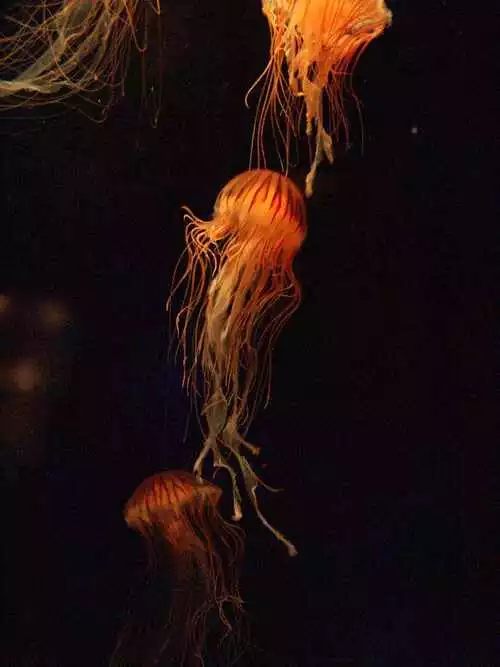
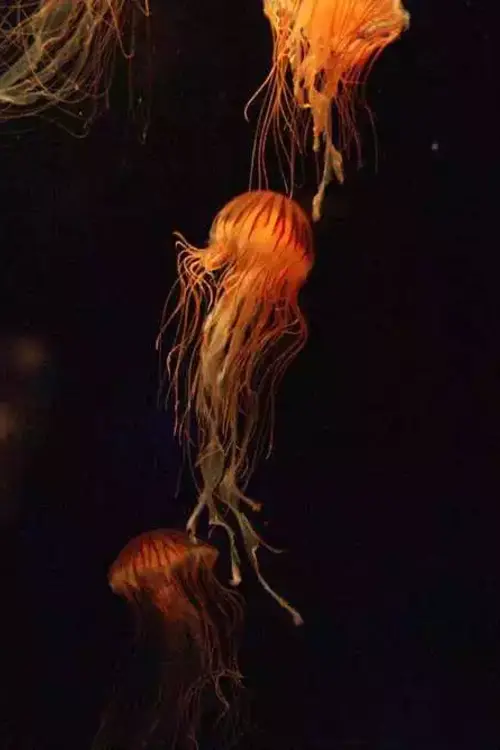
discovery images and css added

diff --git a/chamber/styles/discovery-base.css b/chamber/styles/discovery-base.css
@@ -81,48 +81,86 @@ container-navbar {
   background-color: white;
 }
 
-
-
 /*SIDE BAR*/
 
 main {
-    display: grid;
-    grid-template-columns: 1fr 3fr; /* Adjust column proportions as needed */
-    
-    height: 100vh;
+  display: grid;
+  grid-template-columns: 1fr 3fr;
+  /* Adjust column proportions as needed */
+
+  height: 100%;
 }
 
 .sidebar {
-    display: grid;
-    grid-template-rows: repeat(3, 1fr);
-    height: 100vh;
-    background-color: #f8f9fa; /* Adjust the background color as needed */
-    border-right: 1px solid #ccc; /* Add a border to separate sidebar from calendar */
+  display: grid;
+  grid-template-rows: repeat(3, 1fr);
+  height: 100%;
+  background-color: #f8f9fa;
+  /* Adjust the background color as needed */
+  border-right: 1px solid #ccc;
+  /* Add a border to separate sidebar from calendar */
 }
 
 .sidebar-section {
-    padding: 10px;
-    text-align: center;
-    border-bottom: 1px solid #ccc; /* Add a border to separate sections */
+  padding: 10px;
+  text-align: center;
+  border-bottom: 1px solid #ccc;
+  /* Add a border to separate sections */
 }
 
 .sidebar-section:last-child {
-    border-bottom: none; /* Remove border for the last section */
+  border-bottom: none;
+  /* Remove border for the last section */
 }
 
 .calendar {
-    width: 100%;
-    border: 1px solid #ccc;
-    border-radius: 5px;
-    background-color: #fff;
-    box-shadow: 0 2px 4px rgba(0, 0, 0, 0.1);
-    height: 100%; /* Adjust height as needed */
+  width: 100%;
+  border: 1px solid #ccc;
+  border-radius: 5px;
+  background-color: #fff;
+  box-shadow: 0 2px 4px rgba(0, 0, 0, 0.1);
+  /* Adjust height as needed */
 }
 
+/* Discovery page */
+.gallery {
+  display: grid;
+  grid-template-columns: repeat(2, 1fr);
+  grid-template-rows: repeat(3, 1fr);
+  grid-gap: 10px;
+  justify-items: center;
+  align-items: center;
+}
+
+.gallery img {
+  width: 100%;
+  height: 100%;
+  object-fit: cover;
+}
+
+.gallery-item {
+  border: red solid 2px;
+  max-width: 400px;
+}
+
+/* Styles for larger views */
+@media screen and (max-width: 768px) {
+  .gallery {
+    grid-template-columns: 1fr;
+  }
+}
+
+/* Hover effect for larger views when hovering over Discover */
+@media screen and (min-width: 769px) {
+  .nav-link:hover ~ .gallery .gallery-image {
+    transform: scale(1.05);
+    cursor: pointer;
+  }
+}
 
 footer {
-    text-align: center;
-    padding: 10px;
-    background-color: #333;
-    color: #fff;
+  text-align: center;
+  padding: 10px;
+  background-color: #333;
+  color: #fff;
 }

diff --git a/chamber/discover.html b/chamber/discover.html
@@ -7,16 +7,9 @@
     <meta property="og:type" content="website" />
     <meta
       property="og:image"
-      content="https://github.com/nilberth-escobar/wdd230/favicon-wdd230.png"
-    />
-    <meta
-      property="og:url"
-      content="https://nilberth-escobar.github.io/wdd230/chamber/index.html"
-    />
-    <meta
-      name="description"
-      content="place where people check outdoor activities, weather. They can join the Chamber of Commerce"
-    />
+      content="https://github.com/nilberth-escobar/wdd230/favicon-wdd230.png"/>
+    <meta property="og:url" content="https://nilberth-escobar.github.io/wdd230/chamber/index.html"/>
+    <meta name="description" content="place where people check outdoor activities, weather. They can join the Chamber of Commerce"/>
     <meta name="author" content="Nilberth Escobar" />
     <title>Life Excursions Chamber of Commerce</title>
     <link rel="icon" href="images/favicon.webp" type="image/x-icon" />
@@ -84,6 +77,28 @@
           Section 3
         </div>
       </div>
+
+      <div class="gallery">
+        <div class="gallery-item">
+          <img src="images/jelly-fish.webp">
+        </div>
+        <div class="gallery-item">
+          <img src="images/maximilian-jähnichen.webp">
+        </div>
+        <div class="gallery-item">
+          <img src="images/oxford-structure.webp">
+        </div>
+        <div class="gallery-item">
+          <img src="images/red-fox.webp">
+        </div>
+        <div class="gallery-item">
+          <img src="images/bryce-canyon.webp">
+        </div>
+        <div class="gallery-item">
+          <img src="images/woman-beauty.webp">
+        </div>
+      </div>
+
     </main>
 
     <footer>
